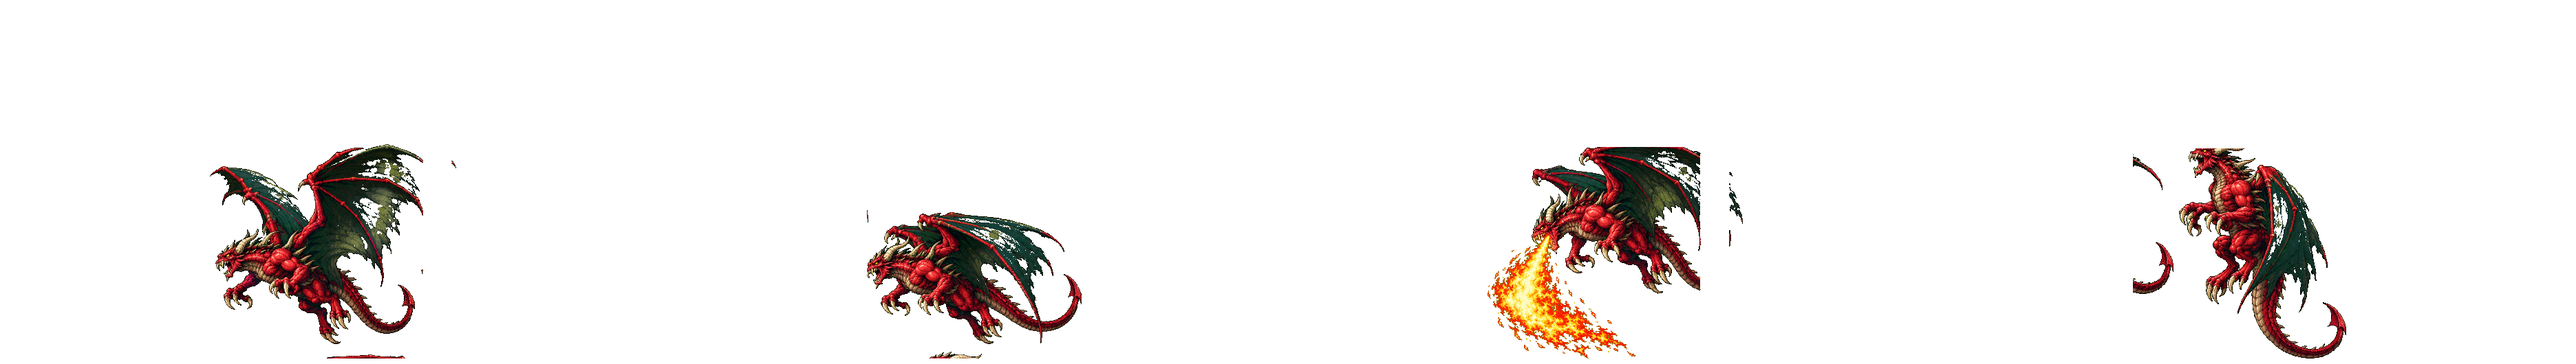
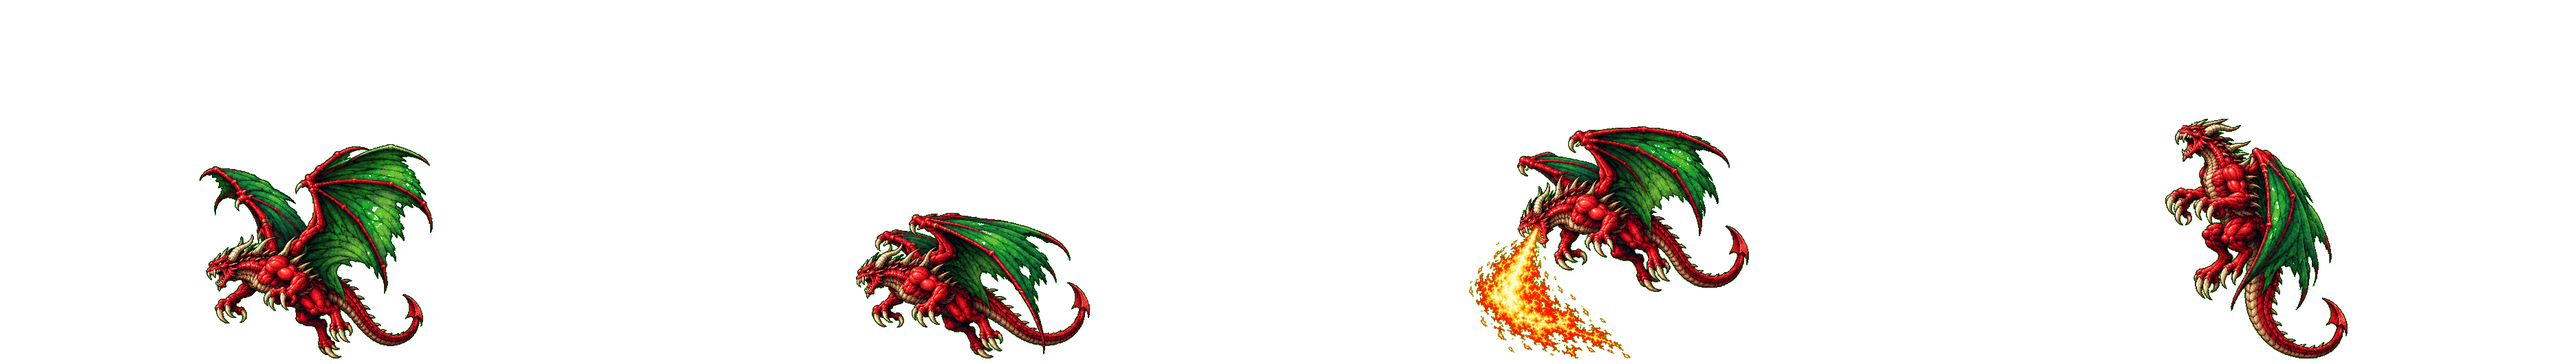
Zeliard: Alguien repainted with whole poses
Claude-Session: https://claude.ai/code/session_01CQGyPnPsFyphkKzhmkRAjV

diff --git a/public/zeliard/game/src/game/bosses.js b/public/zeliard/game/src/game/bosses.js
@@ -38,9 +38,7 @@ export const BOSSES = {
     dmg: (d, src, weak) => (RULES.jp ? (weak ? d >> 1 : d >> 3) : ((src === 1 ? d >> 1 : d >> 3) * (weak ? 2 : 1))), ai: 'dragon', flag: ['0x32', 0xff] },
   // Japanese: sword and spells 1/8, the tail 1/4; its breath hurts twice as much.
   mp8d: { id: 'alguien', name: 'Alguien', hp: 800, xp: 30000, x: 42, y: 0, tw: 13, th: 13, range: [10, 51], contact: 40, jpWeak: [2, 10, 9, 3],
-    dmg: (d, src, weak) => (RULES.jp ? (weak ? d >> 2 : d >> 3) : d), ai: 'alguien', flag: ['0x3a', 0x01],
-    // Temporary: the painted wings-up and fire poses are cropped; use the two whole poses until the art is redone.
-    poseFrames: [1, 1, 1, 3] },
+    dmg: (d, src, weak) => (RULES.jp ? (weak ? d >> 2 : d >> 3) : d), ai: 'alguien', flag: ['0x3a', 0x01] },
   mpa0: { id: 'jashiin', name: 'Jashiin', hp: 800, xp: 10000, x: 48, y: 9, tw: 6, th: 9, range: [15, 53], contact: 80, final: true,
     dmg: (d, src) => { const sw = RULES.jp ? d >> 2 : d >> 1; return src === 1 ? sw : RULES.jp ? d >> 4 : d >> 2; }, ai: 'jashiin', flag: ['0x47', 0xff] },
 };
@@ -546,7 +544,7 @@ const AI = {
       if (br.len <= 0) b.breath = null;
       else {
         b.pose = 2;
-        const paint = { color: '#ff40a0', r: 0.7 };
+        const paint = { color: '#ff7a20', r: 0.75 };
         for (let k = 1; k <= br.len; k++) {
           const x = b.dir < 0 ? (br.steep ? b.tx + 1 - 2 * k : b.tx - 2 * k) : (br.steep ? b.tx + 10 + 2 * k : b.tx + 11 + 2 * k);
           const y = b.ty + 9 + (br.steep ? 2 * k : k);
